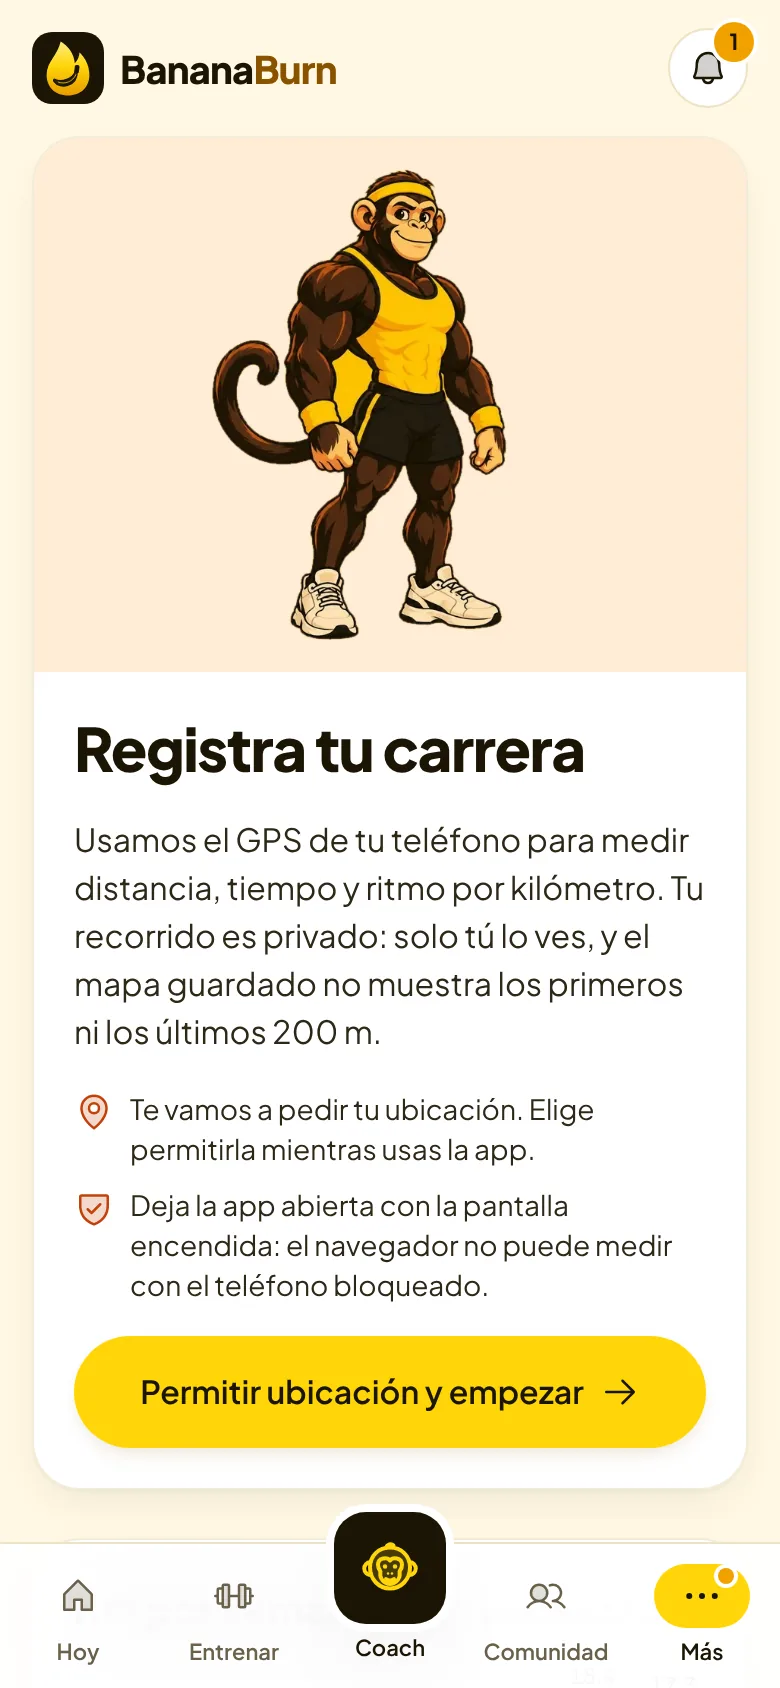
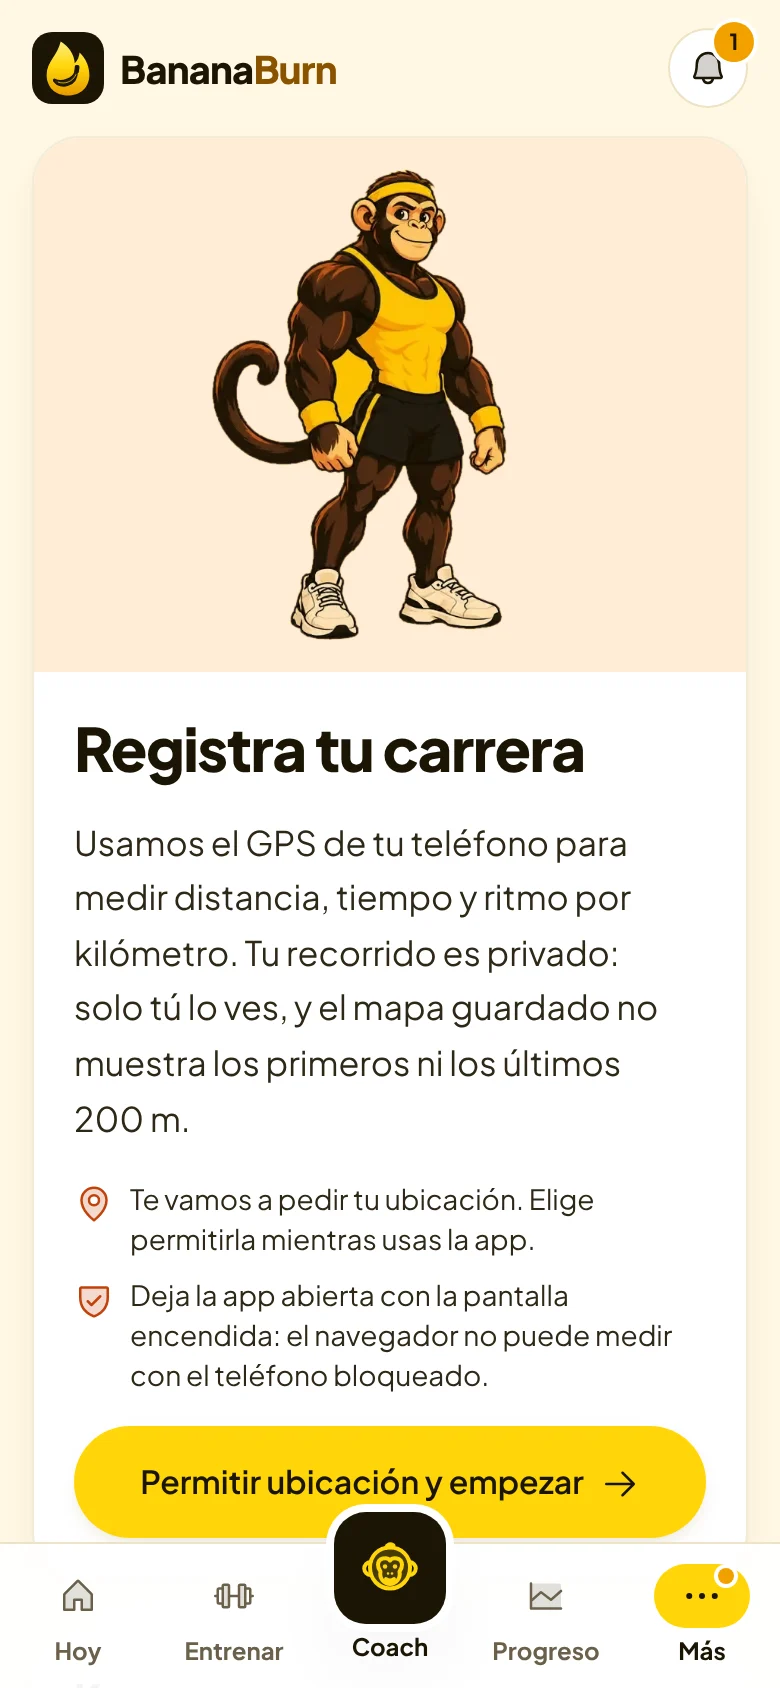
feat(ux): Entrenar, Nutrición y Comunidad con lo importante primero (fase 3)
- Entrenar: primero tu semana y el entreno de hoy con el botón grande "Empezar entrenamiento de hoy" (o "Empezar esta
  sesión" en un programa, 64 px); el exprés pasa justo después.
- Nutrición: el registro de comidas va primero; las pautas del programa, después.
- Comunidad: sin perfiles para sugerir, un solo paso claro ("Invitar a alguien" o "Ver todos").
- Inicio: capturas nuevas con la barra inferior actual (nutrición, progreso, coach, comunidad, retos, niveles, aprende,
  correr, temporadas y Platanita en rosa).

Claude-Session: https://claude.ai/code/session_01XUxByibABoq2gDNkRUKgLG

diff --git a/src/app/(app)/app/nutricion/page.tsx b/src/app/(app)/app/nutricion/page.tsx
@@ -47,16 +47,6 @@ export default async function Nutricion() {
         <h1 className="text-3xl sm:text-4xl font-extrabold tracking-tight text-ink">Comida de hoy</h1>
         <p className="mt-1 text-sm text-muted">Tu meta: {t.kcal.toLocaleString("es-419")} kcal y {t.protein} g de proteína. {px ? `Ajustada a ${d.program!.title}.` : "Se ajusta cada semana con tu peso real."}</p>
       </header>
-      {px && px.food.length > 0 && (
-        <section aria-labelledby="comida-programa" className="rounded-[1.5rem] bg-ink p-5 text-cream">
-          <p className="text-[11px] font-extrabold uppercase tracking-[.12em] text-banana">{px.mode}</p>
-          <h2 id="comida-programa" className="mt-1 text-xl font-extrabold text-white">Cómo comer en {d.program!.title}</h2>
-          {d.program!.meta.nutrition?.note && <p className="mt-1 text-sm text-cream/85">{d.program!.meta.nutrition.note}</p>}
-          <ul className="mt-3 grid gap-2 sm:grid-cols-2">
-            {px.food.map((f) => <li key={f} className="flex items-start gap-2 text-sm"><CheckCircle weight="fill" className="mt-0.5 size-4 shrink-0 text-banana" />{f}</li>)}
-          </ul>
-        </section>
-      )}
       <div className="grid gap-5 lg:grid-cols-[1.4fr_1fr] items-start [&>*]:min-w-0">
         <FoodLog quick={{ kcal: daily.log.kcal ?? 0, protein: daily.log.protein ?? 0 }} initial={meals.today} yesterday={meals.yesterday} targets={{ kcal: t.kcal, protein: t.protein, carbs: t.carbs, fat: t.fat }} dateKey={d.today.iso} demo={v.demo} country={v.country} extras={extras} />
         <aside className="space-y-3 lg:sticky lg:top-6">
@@ -86,6 +76,17 @@ export default async function Nutricion() {
           </div>
         </aside>
       </div>
+      {/* Las pautas del programa van después del registro: lo primero es anotar lo que comes. */}
+      {px && px.food.length > 0 && (
+        <section aria-labelledby="comida-programa" className="rounded-[1.5rem] bg-ink p-5 text-cream">
+          <p className="text-[11px] font-extrabold uppercase tracking-[.12em] text-banana">{px.mode}</p>
+          <h2 id="comida-programa" className="mt-1 text-xl font-extrabold text-white">Cómo comer en {d.program!.title}</h2>
+          {d.program!.meta.nutrition?.note && <p className="mt-1 text-sm text-cream/85">{d.program!.meta.nutrition.note}</p>}
+          <ul className="mt-3 grid gap-2 sm:grid-cols-2">
+            {px.food.map((f) => <li key={f} className="flex items-start gap-2 text-sm"><CheckCircle weight="fill" className="mt-0.5 size-4 shrink-0 text-banana" />{f}</li>)}
+          </ul>
+        </section>
+      )}
     </div>
   );
 }

diff --git a/src/app/(app)/app/entrenar/page.tsx b/src/app/(app)/app/entrenar/page.tsx
@@ -58,8 +58,6 @@ export default async function Entrenar() {
       <PageTour tour="entrenar" steps={tourSteps} serverKeys={learnState.keys} finalLabel="A entrenar" />
       <div className="-mb-3 flex justify-end"><HowToButton tour="entrenar" /></div>
       <FirstTip id="entrenar" coach={coach} title={p ? "Las sesiones de tu programa" : "Tu semana de entreno"}>{p ? "Haz las sesiones en orden. Si se te pasa un día, hazla al siguiente: la progresión sube sola con tu historial." : t(voice, { basico: "Toca el día de hoy para empezar. Si se te pasa uno, hazlo mañana: Coach Banana mantiene el orden y te dice qué peso usar.", intermedio: "Toca el día que te toca para empezar. Si se te pasa uno, hazlo mañana: el orden se mantiene y los pesos se ajustan solos.", tecnico: "Sigue el orden de la semana. Si saltas un día, retómalo al siguiente: la progresión de cargas se recalcula con tu historial." })}</FirstTip>
-      {/* Exprés arriba: la salida para los días ocupados (antes quedaba al final y casi nadie la veía). */}
-      <ExpressCard program={!!p} coach={coach} />
       {p ? (
         <>
           {/* Programa activo: su portada, la semana del programa y sus sesiones */}
@@ -97,6 +95,9 @@ export default async function Entrenar() {
           <WeekTabs voice={voice} tech={tech} days={d.weekPlan} todayDow={d.today.dow} done={done} todayDone={!!todayTpl && doneTpls.includes(todayTpl)} />
         </>
       )}
+      {/* Primero tu semana y el entreno de hoy; justo después, el exprés para los días ocupados (antes iba arriba y
+          competía con el plan; al final de todo casi nadie lo veía). */}
+      <ExpressCard program={!!p} coach={coach} compact />
       <Link href="/app/ejercicios" className="card p-4 flex items-center gap-3"><span className="grid place-items-center size-11 shrink-0 rounded-xl bg-banana-soft text-banana-ink" aria-hidden><Books weight="duotone" className="size-6" /></span><span className="flex-1"><span className="block font-extrabold text-ink">Biblioteca de {LIB_COUNT.toLocaleString("es-419")} ejercicios</span><span className="block text-sm text-muted">Busca por músculo o equipo, con pasos en español.</span></span><CaretRight weight="bold" className="size-5 shrink-0 text-faint" /></Link>
     </div>
   );

diff --git a/src/app/(app)/app/comunidad/page.tsx b/src/app/(app)/app/comunidad/page.tsx
@@ -130,10 +130,13 @@ export default async function Comunidad({ searchParams }: { searchParams: Promis
                 {people.length ? (
                   <ul className="grid gap-3 sm:grid-cols-2">{people.map((p) => <PersonCard key={p.id} p={p} />)}</ul>
                 ) : (
-                  <p className="card p-5 text-sm text-muted">
-                    {filter === "todos" ? "Por ahora no hay más perfiles públicos. Invita a alguien de tu gym y entrenen juntos." : filter === "cerca" ? `Todavía no hay perfiles públicos ${country ? `en ${country}` : "en tu país"} que no sigas.` : filter === "objetivo" ? "Todavía no hay perfiles públicos con tu mismo objetivo que no sigas." : "Nadie con perfil público entrenó en las últimas dos semanas."}
-                    {filter !== "todos" && <> <Link href="/app/comunidad?vista=descubrir" className="font-bold text-ink underline">Ver todos</Link></>}
-                  </p>
+                  <div className="card p-5 text-sm text-muted">
+                    <p>{filter === "todos" ? "Por ahora no hay más perfiles públicos. Invita a alguien de tu gym y entrenen juntos." : filter === "cerca" ? `Todavía no hay perfiles públicos ${country ? `en ${country}` : "en tu país"} que no sigas.` : filter === "objetivo" ? "Todavía no hay perfiles públicos con tu mismo objetivo que no sigas." : "Nadie con perfil público entrenó en las últimas dos semanas."}</p>
+                    {/* Un solo paso siguiente, claro: invitar a alguien o ver a todos. */}
+                    {filter === "todos"
+                      ? <Link href="/app/referidos" className="btn-primary mt-3 h-12 px-5">Invitar a alguien<ArrowRight weight="bold" className="size-4" /></Link>
+                      : <Link href="/app/comunidad?vista=descubrir" className="btn-ghost mt-3 h-12 px-5">Ver todos</Link>}
+                  </div>
                 )}
               </section>
               <section aria-labelledby="publicas-t" className="space-y-4 pt-2">

diff --git a/src/components/programas/program-week.tsx b/src/components/programas/program-week.tsx
@@ -68,7 +68,7 @@ export function ProgramWeek({ sessions, current, cta = true, label = "Sesiones d
           s.done ? (
             <Link href={`${s.href}${s.href.includes("?") ? "&" : "?"}repetir=1`} className="btn-ghost mt-5 h-13 w-full px-6 sm:w-auto"><Repeat weight="bold" className="size-5" />Repetir (no suma XP)</Link>
           ) : (
-            <Link data-tour="ent-empezar" href={s.href} className={`mt-5 h-13 w-full px-6 sm:w-auto ${s.day === current ? "btn-primary" : "btn-ghost"}`}>{s.day === current ? "Empezar esta sesión" : `Hacer ${s.title} ahora`}<ArrowRight weight="bold" className="size-5" /></Link>
+            <Link data-tour="ent-empezar" href={s.href} className={`mt-5 w-full sm:w-auto ${s.day === current ? "btn-primary h-16 px-8 text-lg font-extrabold shadow-lift" : "btn-ghost h-13 px-6"}`}>{s.day === current ? "Empezar esta sesión" : `Hacer ${s.title} ahora`}<ArrowRight weight="bold" className="size-5" /></Link>
           )
         ) : <p className="mt-4 flex items-center gap-1.5 text-sm font-semibold text-muted"><Lock weight="duotone" className="size-4" />Disponible al empezar el programa.</p>)}
       </section>

diff --git a/src/app/(app)/app/entrenar/week-tabs.tsx b/src/app/(app)/app/entrenar/week-tabs.tsx
@@ -55,7 +55,7 @@ export function WeekTabs({ days, todayDow, done, todayDone = false, voice = DEFA
                 <Link href="/app/entreno?repetir=1" className="btn-ghost mt-3 w-full sm:w-auto h-13 px-6"><Repeat weight="bold" className="size-5" />Repetir (no suma XP)</Link>
               </div>
             ) : (
-              <Link data-tour="ent-empezar" href={isToday ? "/app/entreno" : `/app/entreno?dia=${p.dow}`} className={`mt-5 w-full sm:w-auto h-13 px-6 ${isToday ? "btn-primary" : "btn-ghost"}`}>{isToday ? "Empezar entreno de hoy" : `Hacer ${p.name} ahora`} <ArrowRight weight="bold" className="size-5" /></Link>
+              <Link data-tour="ent-empezar" href={isToday ? "/app/entreno" : `/app/entreno?dia=${p.dow}`} className={`mt-5 w-full sm:w-auto ${isToday ? "btn-primary h-16 px-8 text-lg font-extrabold shadow-lift" : "btn-ghost h-13 px-6"}`}>{isToday ? "Empezar entrenamiento de hoy" : `Hacer ${p.name} ahora`} <ArrowRight weight="bold" className="size-5" /></Link>
             )}
           </>
         ) : (
